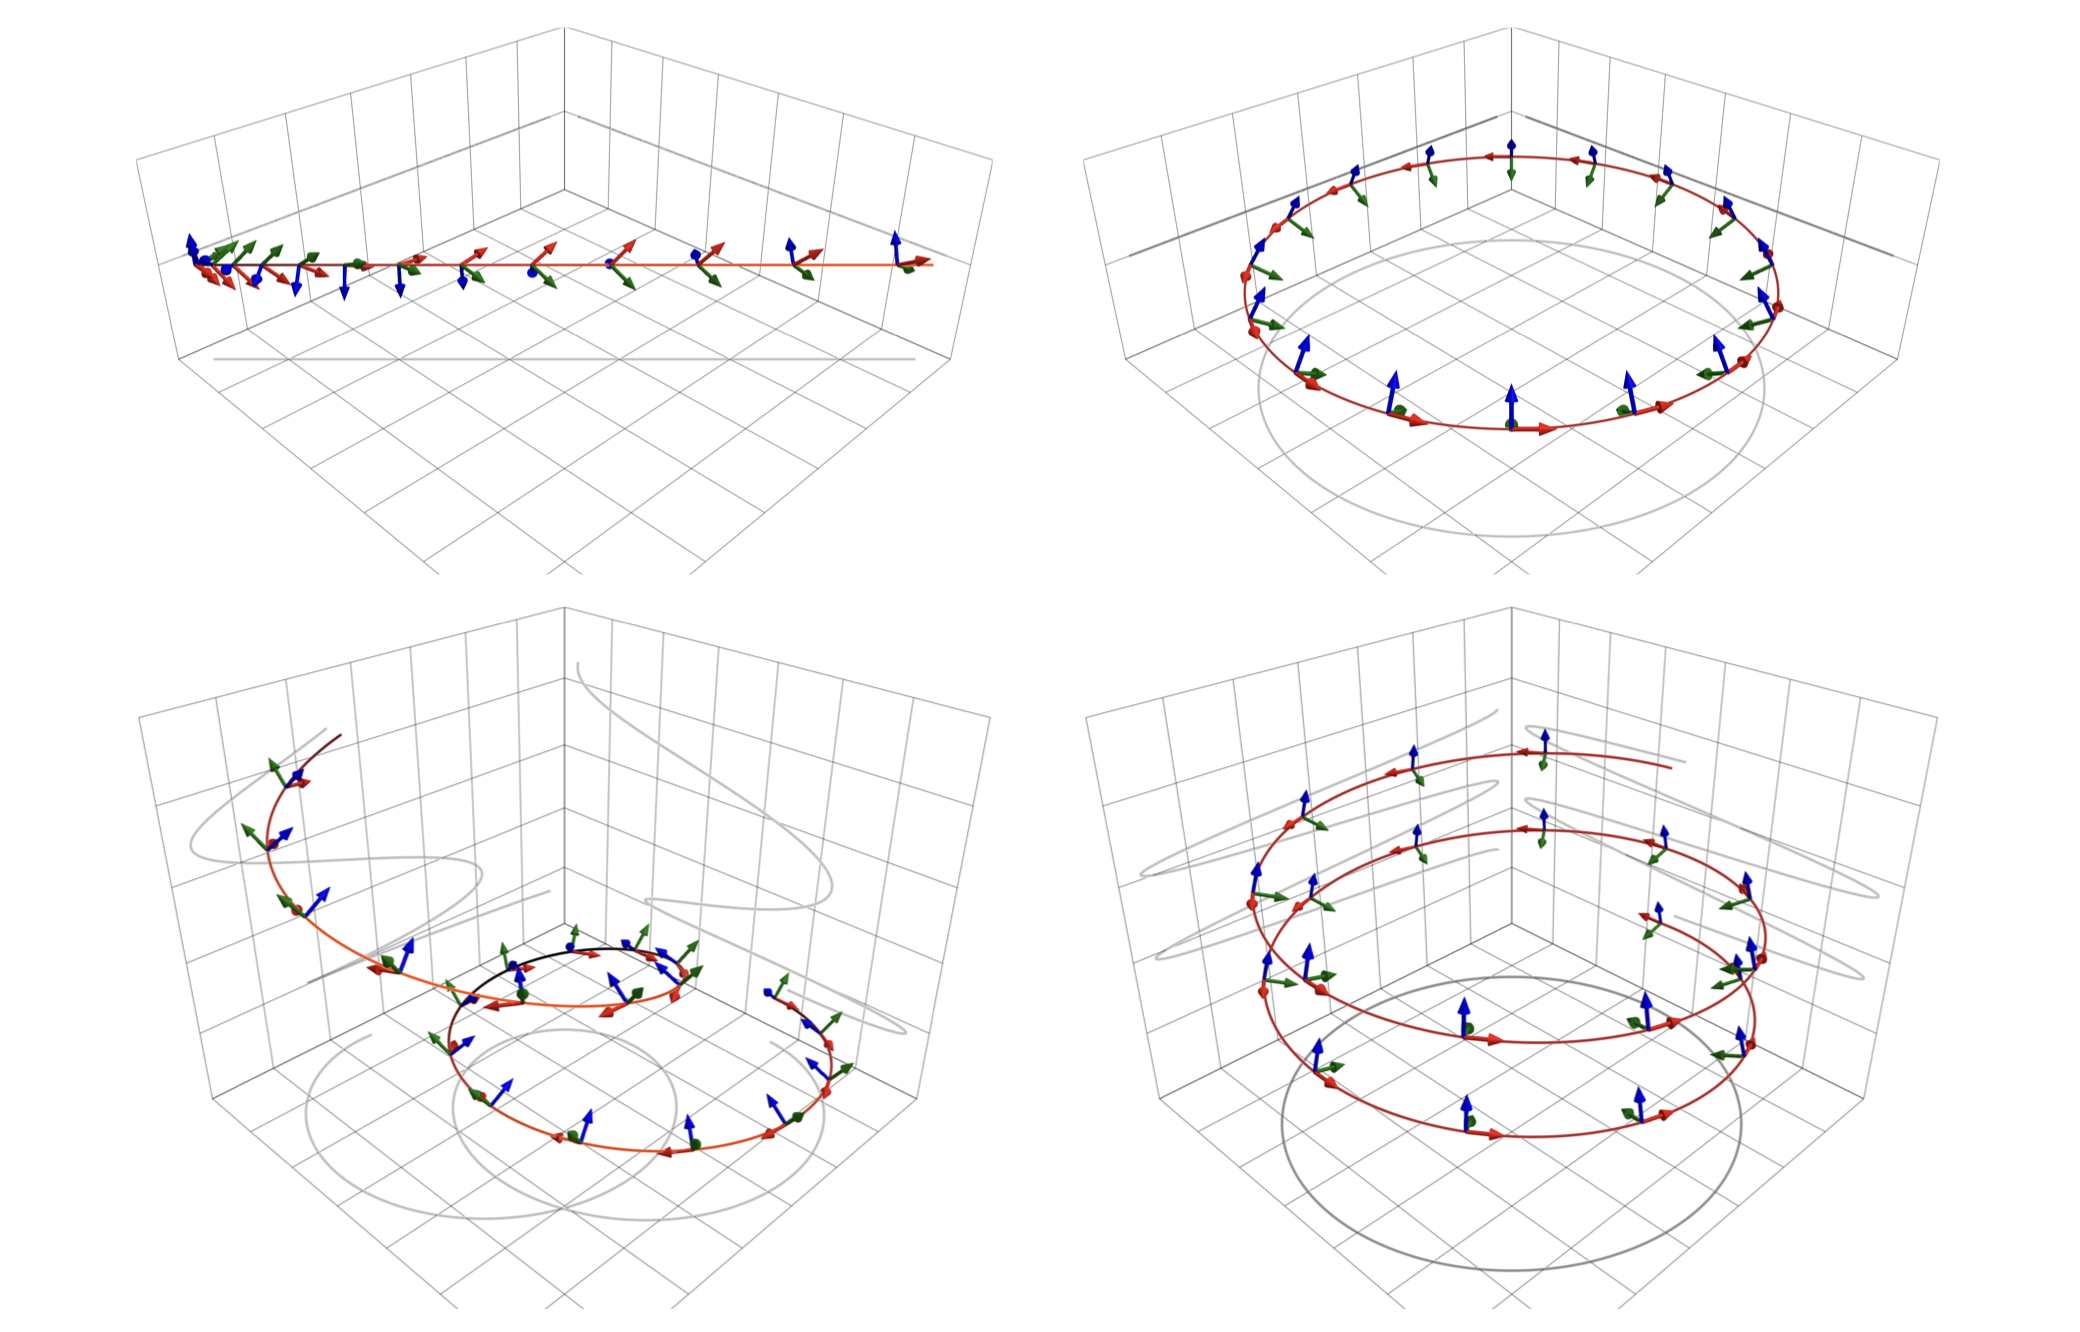
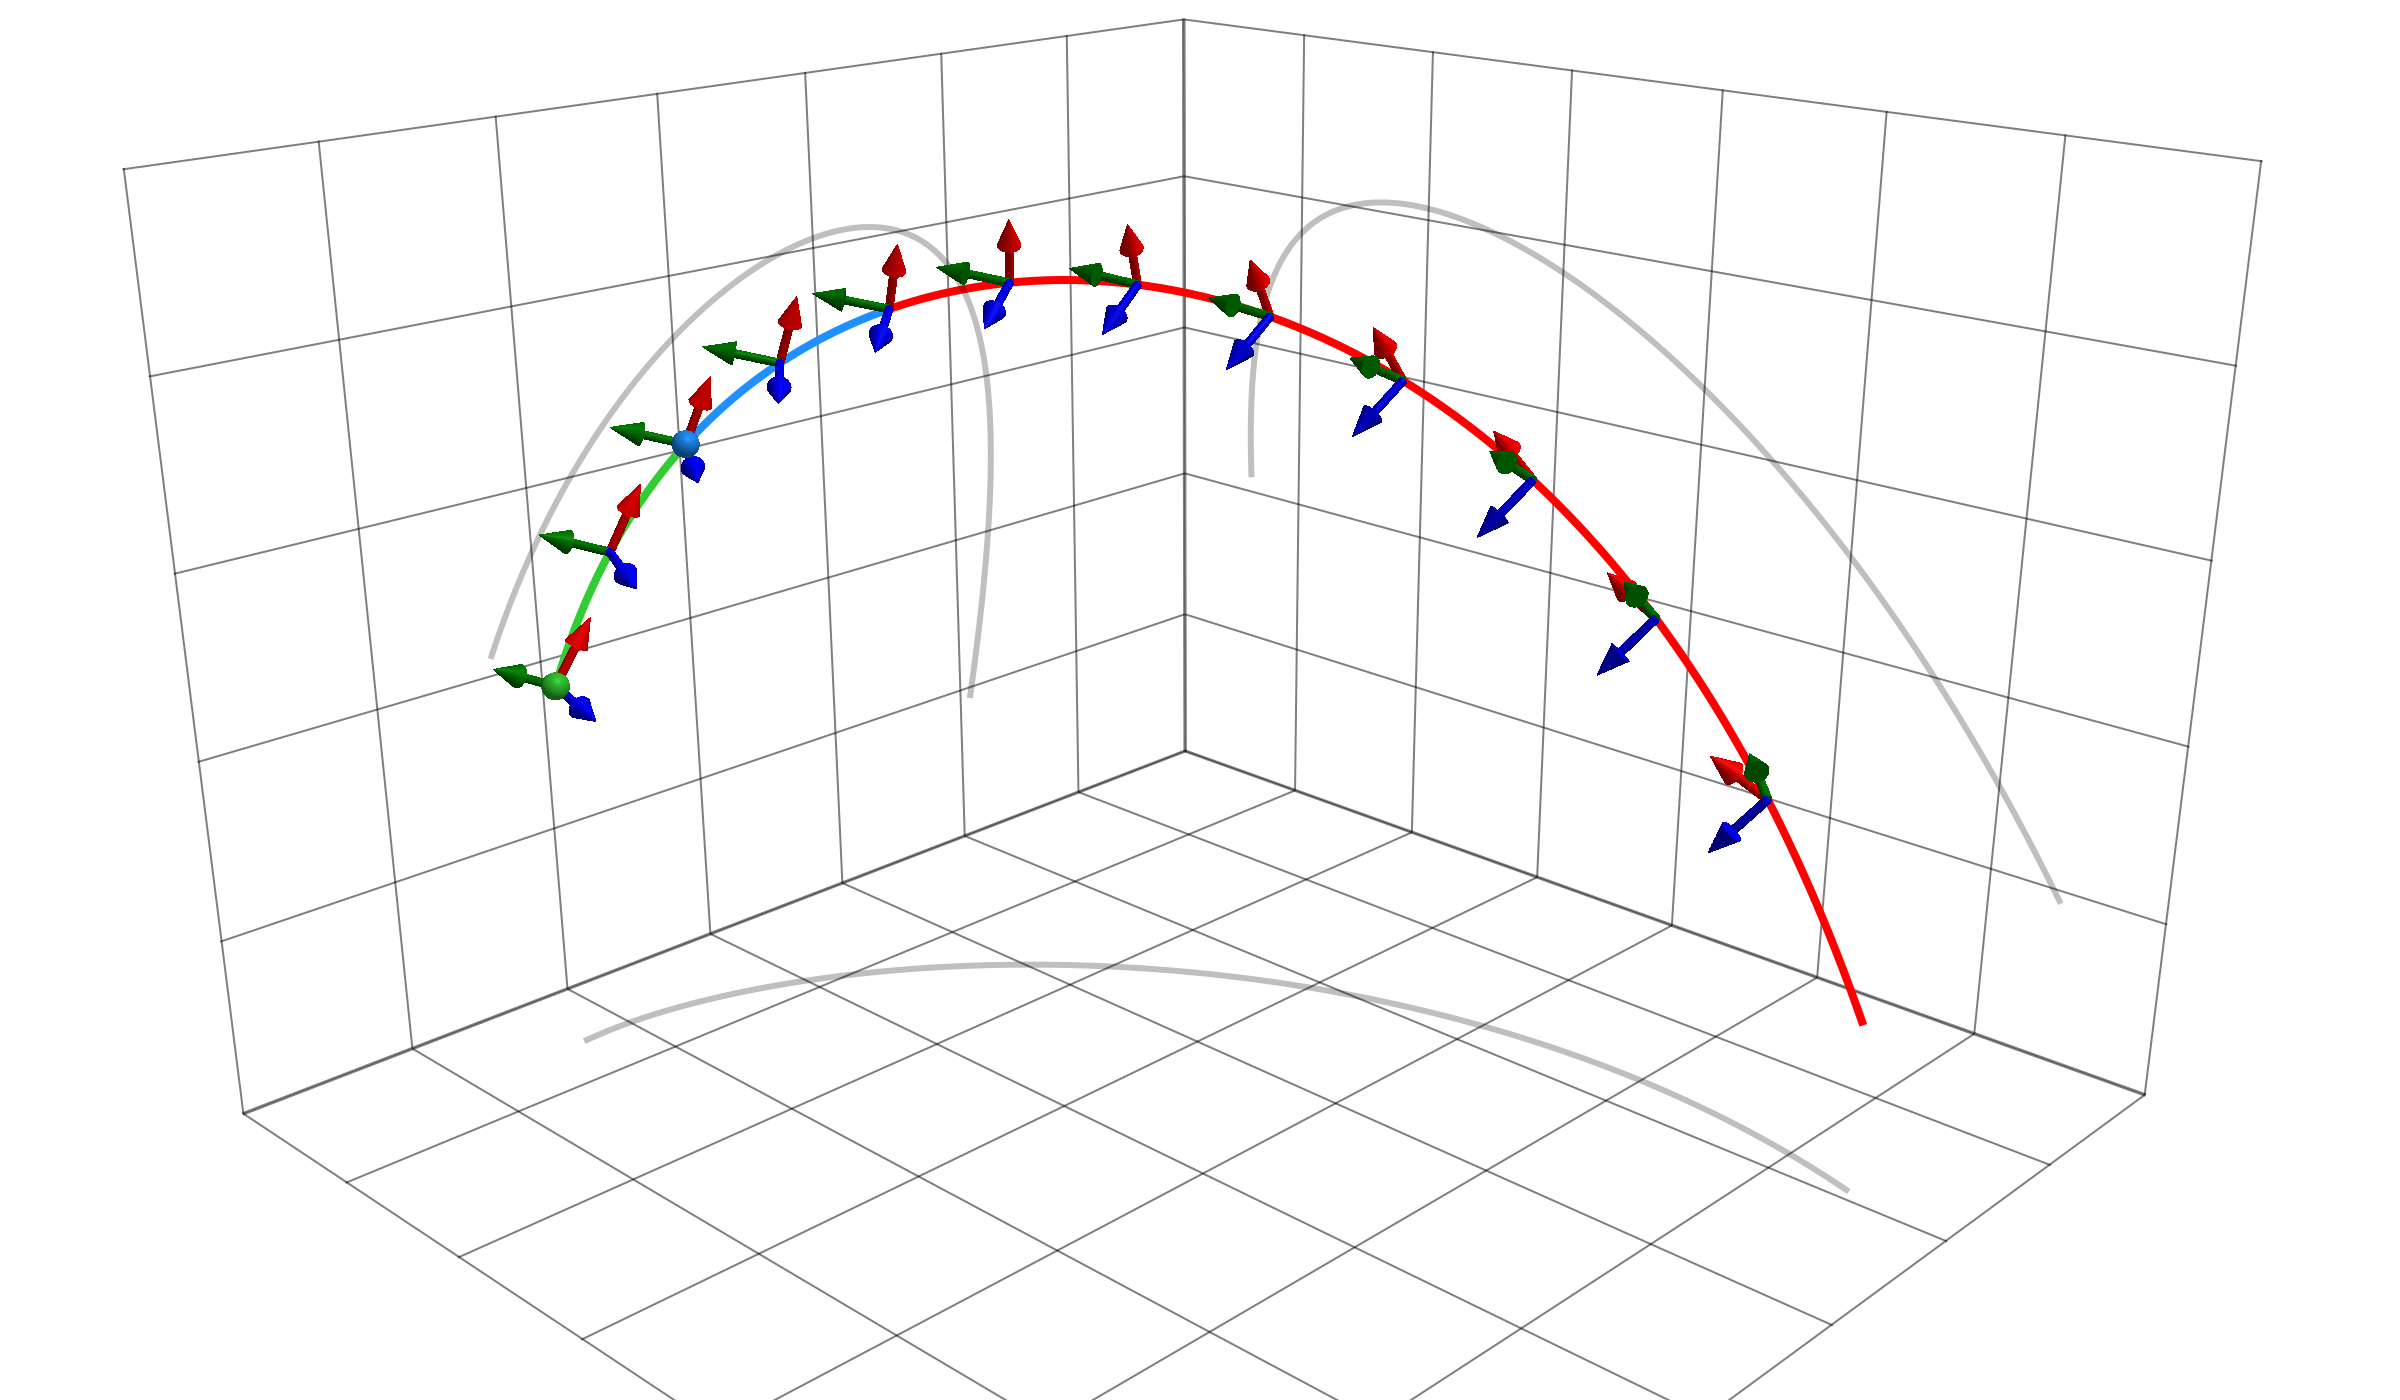
update publications

diff --git a/_publications/0015.md b/_publications/0015.md
@@ -1,10 +1,11 @@
 ---
 title: Lost in Time? Continuous Symmetry and Identifiability in Aided Inertial Navigation with Unknown Measurement Delays
 authors: Jonathan Kelly, Phone Thiha Kyaw, Mattew Giamou
-venue: arXiv, Robotics (cs.RO)
+venue: IEEE International Conference on Multisensor Fusion and Integration (MFI), Pilsen, Czechia
 year: 2026
-type: Preprint
+type: Conference
 cover_image: /assets/img/publications/lost-in-time.png
+# image_fit: contain
 link: https://arxiv.org/abs/2607.03699
 links:
   - label: Paper

diff --git a/_publications/0016.md b/_publications/0016.md
@@ -1,0 +1,13 @@
+---
+title: "Contact Modes Are Strata: What Geometric Structure Buys in Discrete–Continuous Planning"
+authors: Phone Thiha Kyaw, Jonathan Kelly
+venue: arXiv, Robotics (cs.RO)
+year: 2026
+type: Preprint
+cover_image: /assets/img/publications/strata-iros.gif
+link: https://arxiv.org/abs/2608.15541
+links:
+  - label: Paper
+    url: https://arxiv.org/abs/2608.15541
+date: 2026-08-16
+---

diff --git a/_publications/0014.md b/_publications/0014.md
@@ -1,7 +1,7 @@
 ---
 title: Exploring the Intrinsic Geometry of Diffusion Models with Constrained Inverse Kinematics
 authors: Miguel Angel Rogel Garcia, Phone Thiha Kyaw, Jonathan Kelly
-venue: arXiv, Robotics (cs.RO)
+venue: RSS 2026 Workshop on Diffusion for Robot Learning, Sydney, Australia
 year: 2026
 type: Preprint
 cover_image: /assets/img/publications/constrained-ik.png
